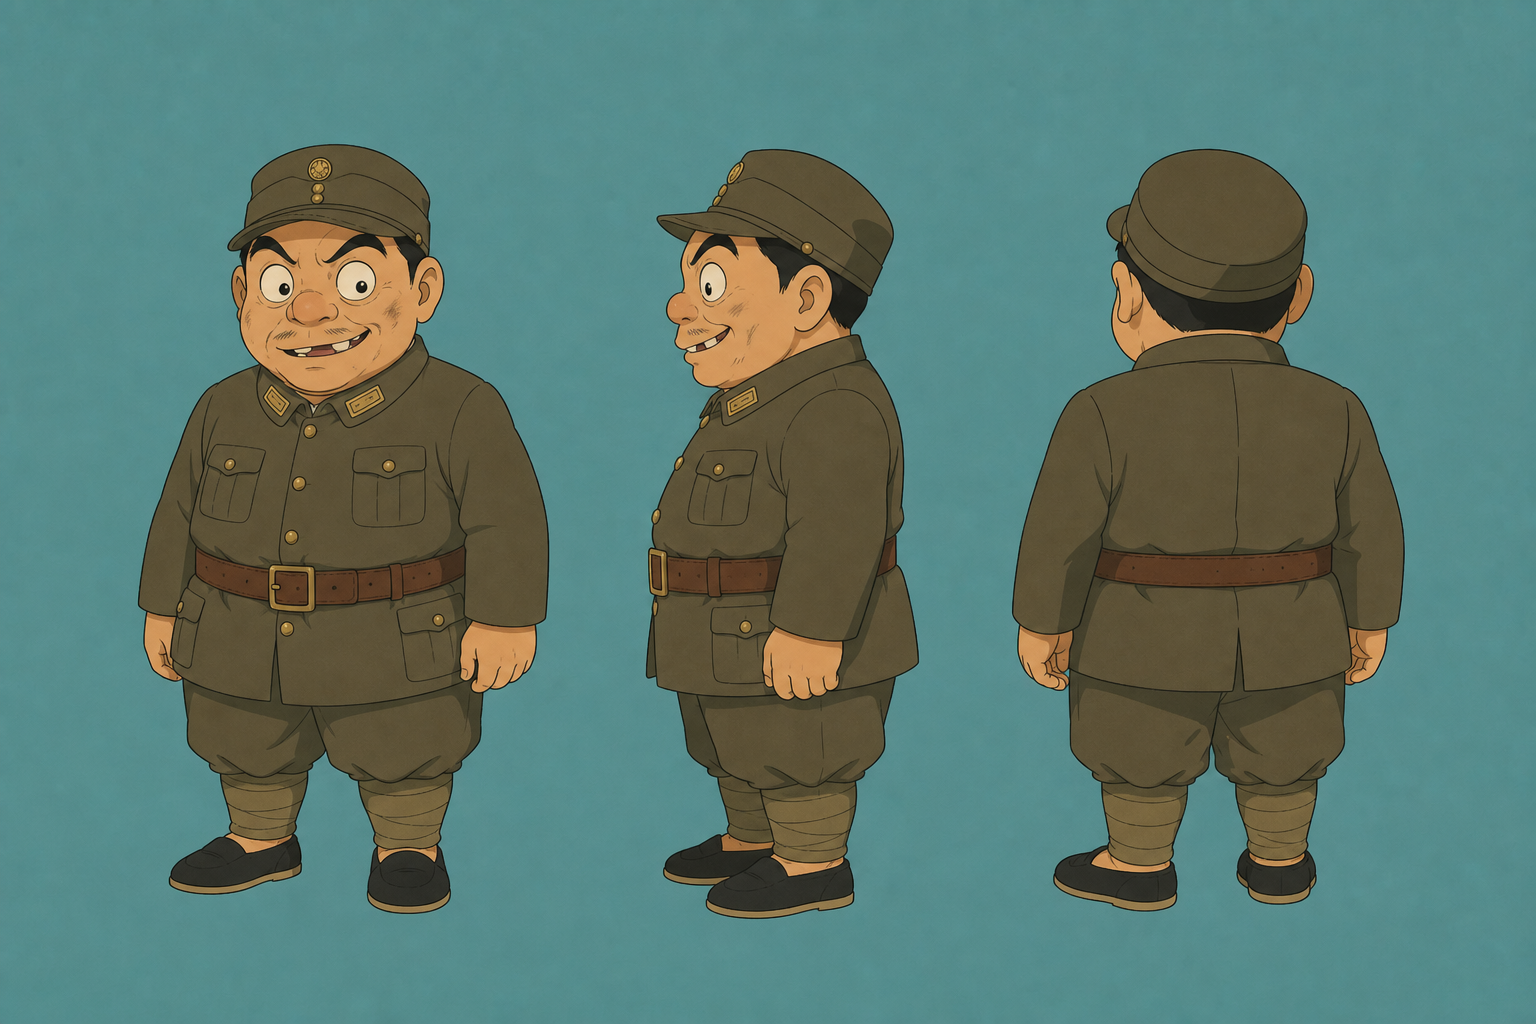
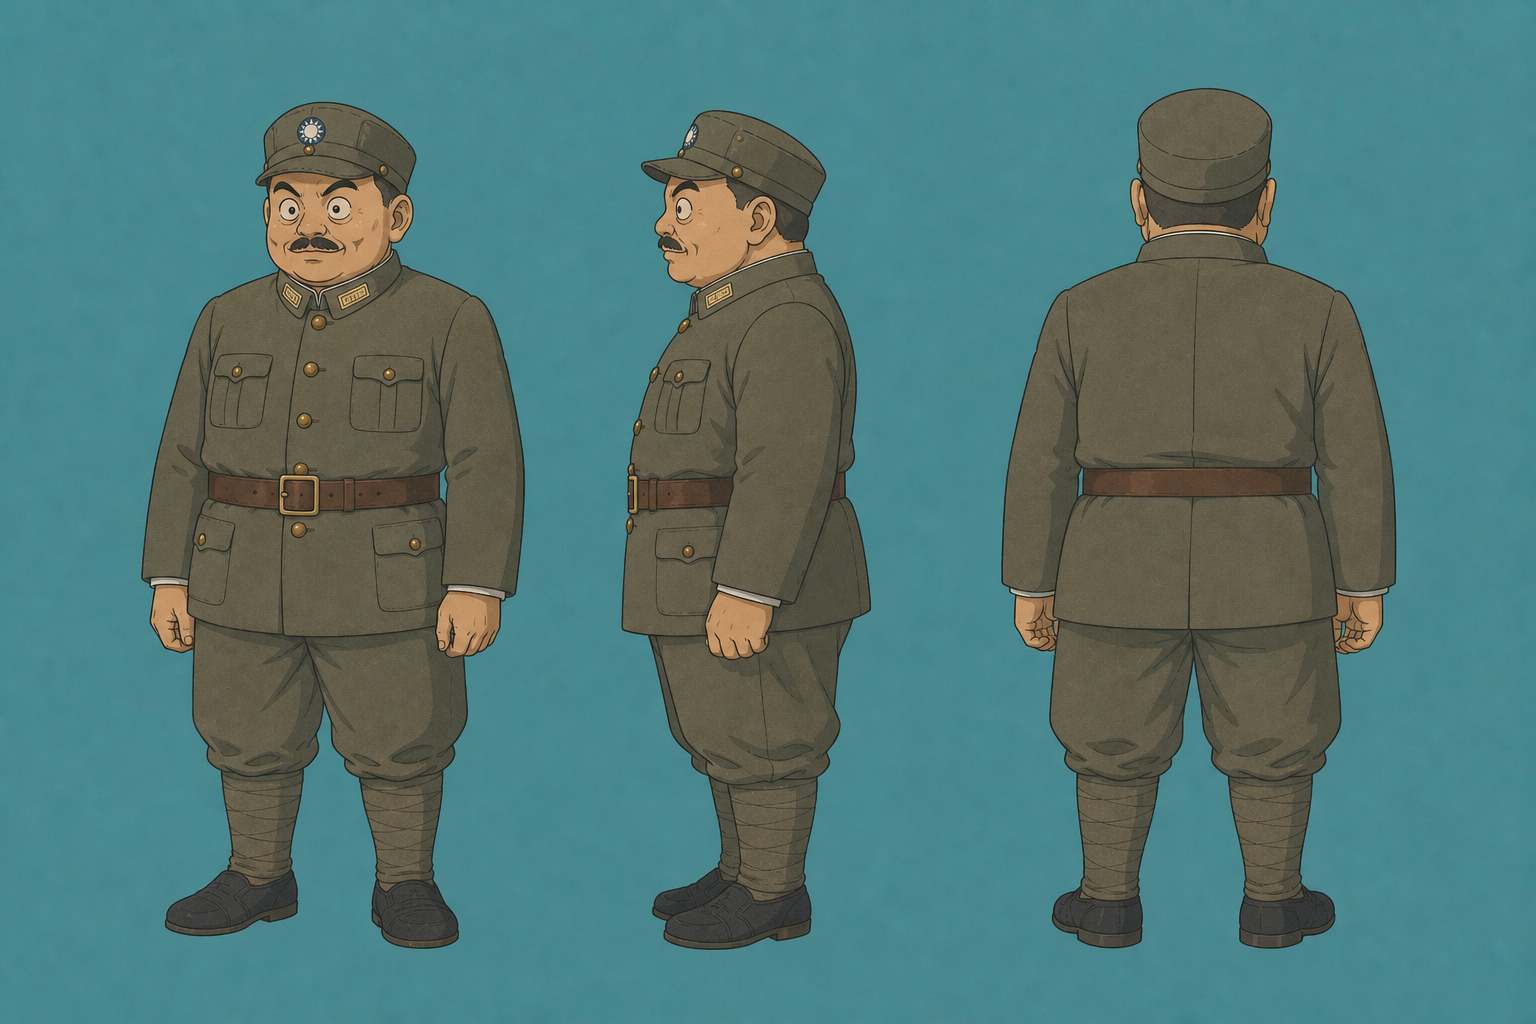
1

Changed region(s): [[0.0625, 0.0938, 0.375, 0.9375], [0.625, 0.0625, 0.9375, 0.9375], [0.4062, 0.0938, 0.625, 0.9375]]

diff --git a/方/02_描述词/第三幕/卡3-3_文章暴露／秦学平告发_画面描述词.md b/方/02_描述词/第三幕/卡3-3_文章暴露／秦学平告发_画面描述词.md
@@ -1,19 +1,20 @@
 # 卡3-3｜告发与调走｜胖士兵告状→高层调走凌凤梧｜1:51—1:59｜8s
 
-> 📌 版本：v1.2｜更新：2026-08-13｜操作：Codex（剧情改版：秦学平线撤销，复用2-2胖士兵）
+> 📌 版本：v1.3｜更新：2026-08-14｜操作：Codex（补齐窥见写稿首帧）
 
 > 一句话：圆胖士兵看见方志敏写东西，跑办公室叫嚣告状（凌凤梧坏话＋方知道消息在写），高层拍板调走凌凤梧并威胁找出文稿，共8s。
 
 ## 📎 文件连接
 - 分镜图参考（告发办公室）：![[方/07_素材图/第三幕/卡3-3_告发办公室.png]]
 - 角色参考（2-2 士兵复用，右圆胖＋左瘦）：![[方/07_素材图/第三幕/卡3-3_双士兵脸.png]]
+- 已生成首帧（胖士兵窥见方写稿）：![[方/08_探索/第三幕/生成图/卡3-3_缺图_01_胖士兵窥见方写稿.png]]
 - 角色卡：[[03_角色卡/凌凤梧|凌凤梧]]、[[03_角色卡/方志敏|方志敏]]
 - 声音：[[04_声音设计/声音设计总表|声音设计总表]]
 
 ## 🎬 画面描述词（一键复制给chat）
-> 16:9 两段式：先在冷灰蓝牢房走廊，铁栏外圆胖的国名党士兵（复用第二幕2-2 的胖士兵造型，微Q约5头身偏敦实，贪婪表情）从栏缝看见方志敏伏在桌边写东西，眯眼记下、缩身离开。随后切民国军政办公室（逆光顶光压顶、冷灰褐色）：胖士兵跑进来，向桌后的高层叫嚣告状，边说边比划，神情又急又贪；高层端坐桌后，画得壮、胖、带点傻气搞笑的反派感，听完一拍桌、抬手一指下令。老上影平涂，镜头稳定，动作克制，不生成大量可读文字。
+> 16:9 两段式：先在冷灰蓝牢房走廊，铁栏外圆胖的国民党士兵（复用第二幕2-2 的胖士兵造型，微Q约5头身偏敦实，贪婪表情）从栏缝看见方志敏伏在桌边写东西，眯眼记下、缩身离开。随后切民国军政办公室（逆光顶光压顶、冷灰褐色）：胖士兵跑进来，向桌后的高层叫嚣告状，边说边比划，神情又急又贪；高层端坐桌后，画得壮、胖、带点傻气搞笑的反派感，听完一拍桌、抬手一指下令。老上影平涂，镜头稳定，动作克制，不生成大量可读文字。
 
 ## ✅ 锁定
 - 胖士兵＝第二幕2-2 复用造型（右圆胖）；高层＝顾祝同，画成坏、胖、壮、带傻气搞笑感。
 - 胖士兵叫嚣但动作不失控；拍桌只一声；不生成大量可读文字。
-- 不解释文稿具体批次；不把方稍后开砖交给胡的文稿画成同一份。
+- 胖士兵看到的是随后被命搜查、由方从暗格取出并传出的同一份文稿。

diff --git a/方/01_任务卡/第三幕_任务卡.md b/方/01_任务卡/第三幕_任务卡.md
@@ -69,11 +69,11 @@
 
 **首尾帧**：首帧：胖士兵从铁栏外看见方写稿。尾帧：高层拍桌下令、胖士兵立正领命。
 
-**锁定**：胖士兵＝2-2 复用（右圆胖）；高层＝顾祝同，坏胖壮、带傻气搞笑感；拍桌只一声；不生成大量可读文字；不解释文稿批次。
+**锁定**：胖士兵＝2-2 复用（右圆胖）；高层＝顾祝同，坏胖壮、带傻气搞笑感；拍桌只一声；不生成大量可读文字；胖士兵看到的是随后被命搜查、由方从暗格取出并传出的同一份文稿。
 
 **AI描述词（直接复制丢进AI视频框）**：
 
-> 16:9 两段式：先在冷灰蓝牢房走廊，铁栏外圆胖的国名党士兵（复用第二幕2-2 的胖士兵造型，微Q约5头身偏敦实，贪婪表情）从栏缝看见方志敏伏在桌边写东西，眯眼记下、缩身离开。随后切民国军政办公室（逆光顶光压顶、冷灰褐色）：胖士兵跑进来，向桌后的高层叫嚣告状，边说边比划，神情又急又贪；高层端坐桌后，画得壮、胖、带点傻气搞笑的反派感，听完一拍桌、抬手一指下令。老上影平涂，镜头稳定，动作克制，不生成大量可读文字。
+> 16:9 两段式：先在冷灰蓝牢房走廊，铁栏外圆胖的国民党士兵（复用第二幕2-2 的胖士兵造型，微Q约5头身偏敦实，贪婪表情）从栏缝看见方志敏伏在桌边写东西，眯眼记下、缩身离开。随后切民国军政办公室（逆光顶光压顶、冷灰褐色）：胖士兵跑进来，向桌后的高层叫嚣告状，边说边比划，神情又急又贪；高层端坐桌后，画得壮、胖、带点傻气搞笑的反派感，听完一拍桌、抬手一指下令。老上影平涂，镜头稳定，动作克制，不生成大量可读文字。
 
 ---
 

diff --git a/方/02_描述词/第三幕/卡3-5_方交文稿给胡逸民_画面描述词.md b/方/02_描述词/第三幕/卡3-5_方交文稿给胡逸民_画面描述词.md
@@ -1,11 +1,15 @@
 # 卡3-5｜开砖传递与威胁｜方开砖给胡→胡窗口给程→层层威胁｜2:07—2:17｜10s
 
-> 📌 版本：v1.2｜更新：2026-08-13｜操作：Codex（剧情改版）
+> 📌 版本：v1.3｜更新：2026-08-14｜操作：Codex（补齐四段独立首帧）
 
 > 一句话：搜房后，方志敏开墙砖暗格取文稿给胡逸民；胖士兵扑空凶左威胁左；胡在窗口把文稿给程全昭；左凶手下，共10s，接第三部分四手黑红化。
 
 ## 📎 文件连接
 - 首帧参考（牢房双人构图）：![[方/07_素材图/第二幕/牢房双人图.png]]
+- 已生成首帧（方开砖给胡）：![[方/08_探索/第三幕/生成图/卡3-5_缺图_01_方开砖交稿给胡.png]]
+- 已生成首帧（胖威胁瘦）：![[方/08_探索/第三幕/生成图/卡3-5_缺图_02_胖士兵威胁瘦士兵.png]]
+- 已生成首帧（胡窗口给程）：![[方/08_探索/第三幕/生成图/卡3-5_缺图_03_胡窗口交稿给程.png]]
+- 已生成首帧（瘦威胁手下）：![[方/08_探索/第三幕/生成图/卡3-5_缺图_04_瘦士兵威胁手下.png]]
 - 角色卡：[[03_角色卡/方志敏|方志敏]]、[[03_角色卡/胡逸民|胡逸民]]、[[03_角色卡/程全昭|程全昭]]
 - 声音：[[04_声音设计/声音设计总表|声音设计总表]]
 

diff --git a/方/08_探索/第三幕/卡3-5_方交文稿_探索.md b/方/08_探索/第三幕/卡3-5_方交文稿_探索.md
@@ -1,8 +1,15 @@
 # 卡3-5｜探索卡｜开砖传递与威胁（方给胡／胡给程／层层迁怒）
 
-> 📌 版本：v1.2｜更新：2026-08-14 13:34｜操作：Codex（按新剧情重做 ×10）
+> 📌 版本：v1.3｜更新：2026-08-14 15:55｜操作：Codex（补齐四段独立首帧）
 
 > 一句话探索：10s 四小段怎样把「方开砖给胡→胖士兵凶瘦士兵→胡窗口给程→瘦士兵凶手下」拍成一条清楚的文稿传递链与权力迁怒链，并自然硬切第三部分四手黑红化？
+
+## 🖼 已生成缺图
+
+- ![[方/08_探索/第三幕/生成图/卡3-5_缺图_01_方开砖交稿给胡.png]]
+- ![[方/08_探索/第三幕/生成图/卡3-5_缺图_02_胖士兵威胁瘦士兵.png]]
+- ![[方/08_探索/第三幕/生成图/卡3-5_缺图_03_胡窗口交稿给程.png]]
+- ![[方/08_探索/第三幕/生成图/卡3-5_缺图_04_瘦士兵威胁手下.png]]
 
 ## 🔍 十元探索（配比方案）
 | 方案 | 十元配比 | 一句话意图 |

diff --git a/方/08_探索/第三幕/卡3-3_文章暴露_探索.md b/方/08_探索/第三幕/卡3-3_文章暴露_探索.md
@@ -1,8 +1,12 @@
 # 卡3-3｜探索卡｜告发与调走（胖士兵窥见／高层下令）
 
-> 📌 版本：v1.2｜更新：2026-08-14 13:34｜操作：Codex（按新剧情重做 ×10）
+> 📌 版本：v1.3｜更新：2026-08-14 15:55｜操作：Codex（补齐窥见写稿首帧）
 
 > 一句话探索：8s 内怎样把「胖士兵窥见方写稿→跑去告状→坏胖高层调走凌凤梧并限令搜稿」说清楚，同时保留圆胖士兵的贪、坏胖高层的壮与傻气，而不变成纯闹剧？
+
+## 🖼 已生成缺图
+
+- ![[方/08_探索/第三幕/生成图/卡3-3_缺图_01_胖士兵窥见方写稿.png]]
 
 ## 🔍 十元探索（配比方案）
 | 方案 | 十元配比 | 一句话意图 |

diff --git a/方/02_描述词/第三幕/卡3-3_文章暴露／秦学平告发.md b/方/02_描述词/第三幕/卡3-3_文章暴露／秦学平告发.md
@@ -19,4 +19,4 @@
 ## ✅ 锁定
 - 胖士兵＝第二幕2-2 复用造型（右圆胖）；高层＝顾祝同，画成坏、胖、壮、带傻气搞笑感。
 - 胖士兵叫嚣但动作不失控；拍桌只一声；不生成大量可读文字。
-- 不解释文稿具体批次；不把方稍后开砖交给胡的文稿画成同一份。
+- 胖士兵看到的是随后被命搜查、由方从暗格取出并传出的同一份文稿。

diff --git a/方/02_描述词/第三幕/卡3-3_文章暴露／秦学平告发_分镜动作时间.md b/方/02_描述词/第三幕/卡3-3_文章暴露／秦学平告发_分镜动作时间.md
@@ -13,4 +13,4 @@
 
 ## ✅ 锁定
 - 胖士兵＝2-2 复用（右圆胖）；高层＝顾祝同，坏胖壮、带傻气搞笑感；拍桌只一声。
-- 不生成大量可读文字；不解释文稿批次；不把开砖暗格文稿画成同一份。
+- 不生成大量可读文字；胖士兵看到的是随后被命搜查、由方从暗格取出并传出的同一份文稿。
